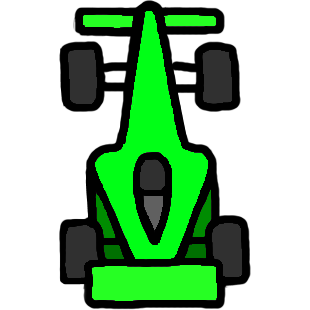
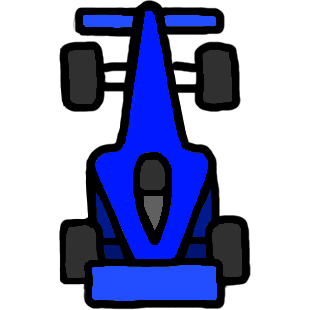
When a car leaves, the next car gets the color and the id of the one who leaved
Added an id List with the available ids. When someone joins, his id gets removed from the list and added when he leaves.

Changed region(s): [[0.2903, 0.029, 0.7258, 0.9871], [0.2613, 0.029, 0.4355, 0.0871]]

diff --git a/src/main/java/ch/bbcag/jamkart/server/ServerGame.java b/src/main/java/ch/bbcag/jamkart/server/ServerGame.java
@@ -17,16 +17,25 @@ import java.util.List;
 import java.util.concurrent.CopyOnWriteArrayList;
 
 public class ServerGame {
+
     private Navigator navigator;
 
     private Server server;
-    private float timer = 0;
-    private List<ServerCar> carList = new CopyOnWriteArrayList<>();
-    private int id = 0;
     private boolean startMessageSent = false;
+
+    private float timer = 0;
+
+    private List<ServerCar> carList = new CopyOnWriteArrayList<>();
+
+    private List<Integer> availableIdList = new CopyOnWriteArrayList<>();
 
     public ServerGame(Navigator navigator) {
         this.navigator = navigator;
+
+        int numberOfPlayers = 4;
+        for (int i = 0; i < numberOfPlayers; i++) {
+            availableIdList.add(i);
+        }
     }
 
     public void start(int port) {
@@ -35,7 +44,7 @@ public class ServerGame {
             server.setServerMessageHandler(this::processMessage);
             server.start();
         } catch (IOException e) {
-            String message = NetErrorMessages.COULDNT_CREATE_SERVER;
+            String message = NetErrorMessages.COULD_NOT_CREATE_SERVER;
             ((SceneBackToStart) navigator.getScene(SceneType.BACK_TO_START)).setMessage(message);
             navigator.navigateTo(SceneType.BACK_TO_START, true);
 
@@ -75,6 +84,7 @@ public class ServerGame {
                         otherCar.getConnection().sendMessage(disconnectedMessage);
                     }
                 }
+                availableIdList.add(0, car.getId());
             }
         }
     }
@@ -93,18 +103,22 @@ public class ServerGame {
     private void processMessage(Message message, Connection connection) {
         switch (message.getMessageType()) {
             case JOIN_GAME:
-                Message idMessage = new Message(MessageType.INITIAL_STATE);
-                int y = id * 50 + 65;
-                idMessage.addValue("id", id);
-                idMessage.addValue("x", 0);
-                idMessage.addValue("y", y);
-                connection.sendMessage(idMessage);
+                if (startMessageSent || availableIdList.isEmpty()) {
+                    connection.close();
+                } else {
+                    Message idMessage = new Message(MessageType.INITIAL_STATE);
+                    int y = availableIdList.get(0) * 50 + 65;
+                    idMessage.addValue("id", availableIdList.get(0));
+                    idMessage.addValue("x", 0);
+                    idMessage.addValue("y", y);
+                    connection.sendMessage(idMessage);
 
-                carList.add(new ServerCar(connection, id, message.getValue("name")));
-                id++;
+                    carList.add(new ServerCar(connection, availableIdList.get(0), message.getValue("name")));
+                    availableIdList.remove(0);
 
-                System.out.println("new player joined the game!");
-                System.out.println("name: " + message.getValue("name"));
+                    System.out.println("new player joined the game!");
+                    System.out.println("name: " + message.getValue("name"));
+                }
                 break;
             case UPDATE:
                 for (ServerCar car : carList) {
@@ -131,6 +145,5 @@ public class ServerGame {
             }
             startMessageSent = true;
         }
-
     }
 }

diff --git a/src/main/java/ch/bbcag/jamkart/NetErrorMessages.java b/src/main/java/ch/bbcag/jamkart/NetErrorMessages.java
@@ -2,16 +2,17 @@ package ch.bbcag.jamkart;
 
 public class NetErrorMessages {
 
-    public static final String COULDNT_INIT_CONNECTION =
+    public static final String COULD_NOT_INIT_CONNECTION =
             "Konnte nicht mit dem Server verbinden!\n" +
-            "Bitte überprüfe die IP-Adresse und den Port";
+            "Bitte überprüfe die IP-Adresse und den Port.";
 
     public static final String CONNECTION_LOST =
             "Verbindung verloren!\n" +
-            "Vermutlich wurde der Server geschlossen";
+            "Vermutlich wurde der Server geschlossen\n" +
+            "oder das Spiel läuft bereits.";
 
-    public static final String COULDNT_CREATE_SERVER =
+    public static final String COULD_NOT_CREATE_SERVER =
             "Konnte keinen Server starten!\n" +
             "Bitte stelle sicher, dass kein anderer Server\n" +
-            "auf diesem Port läuft";
+            "auf diesem Port läuft.";
 }
